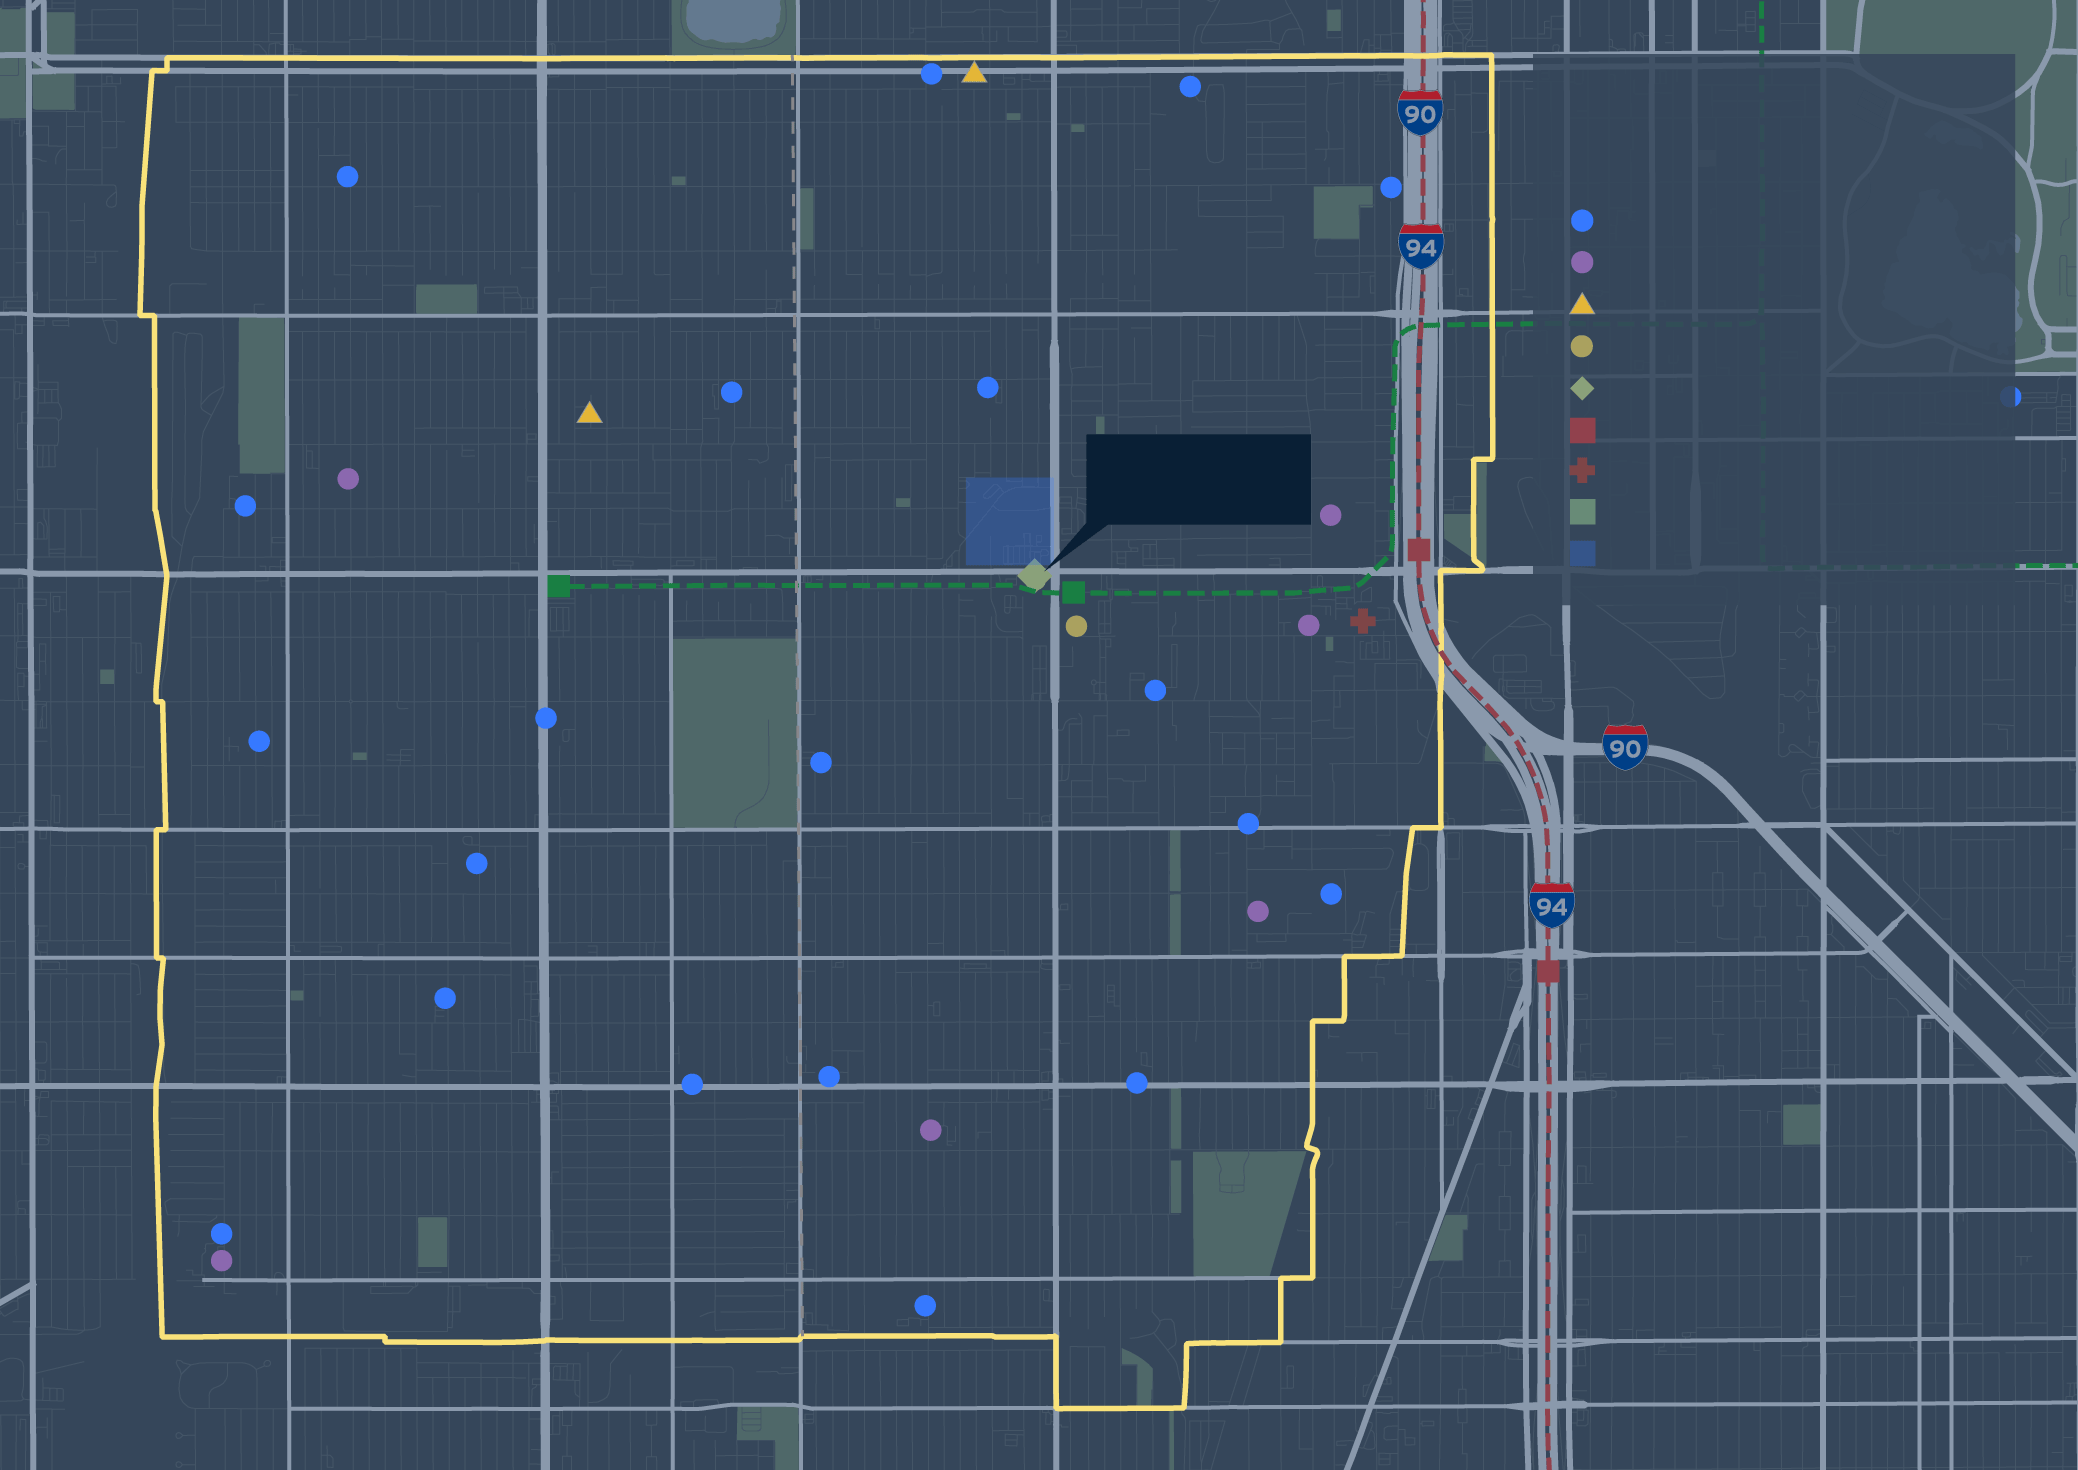
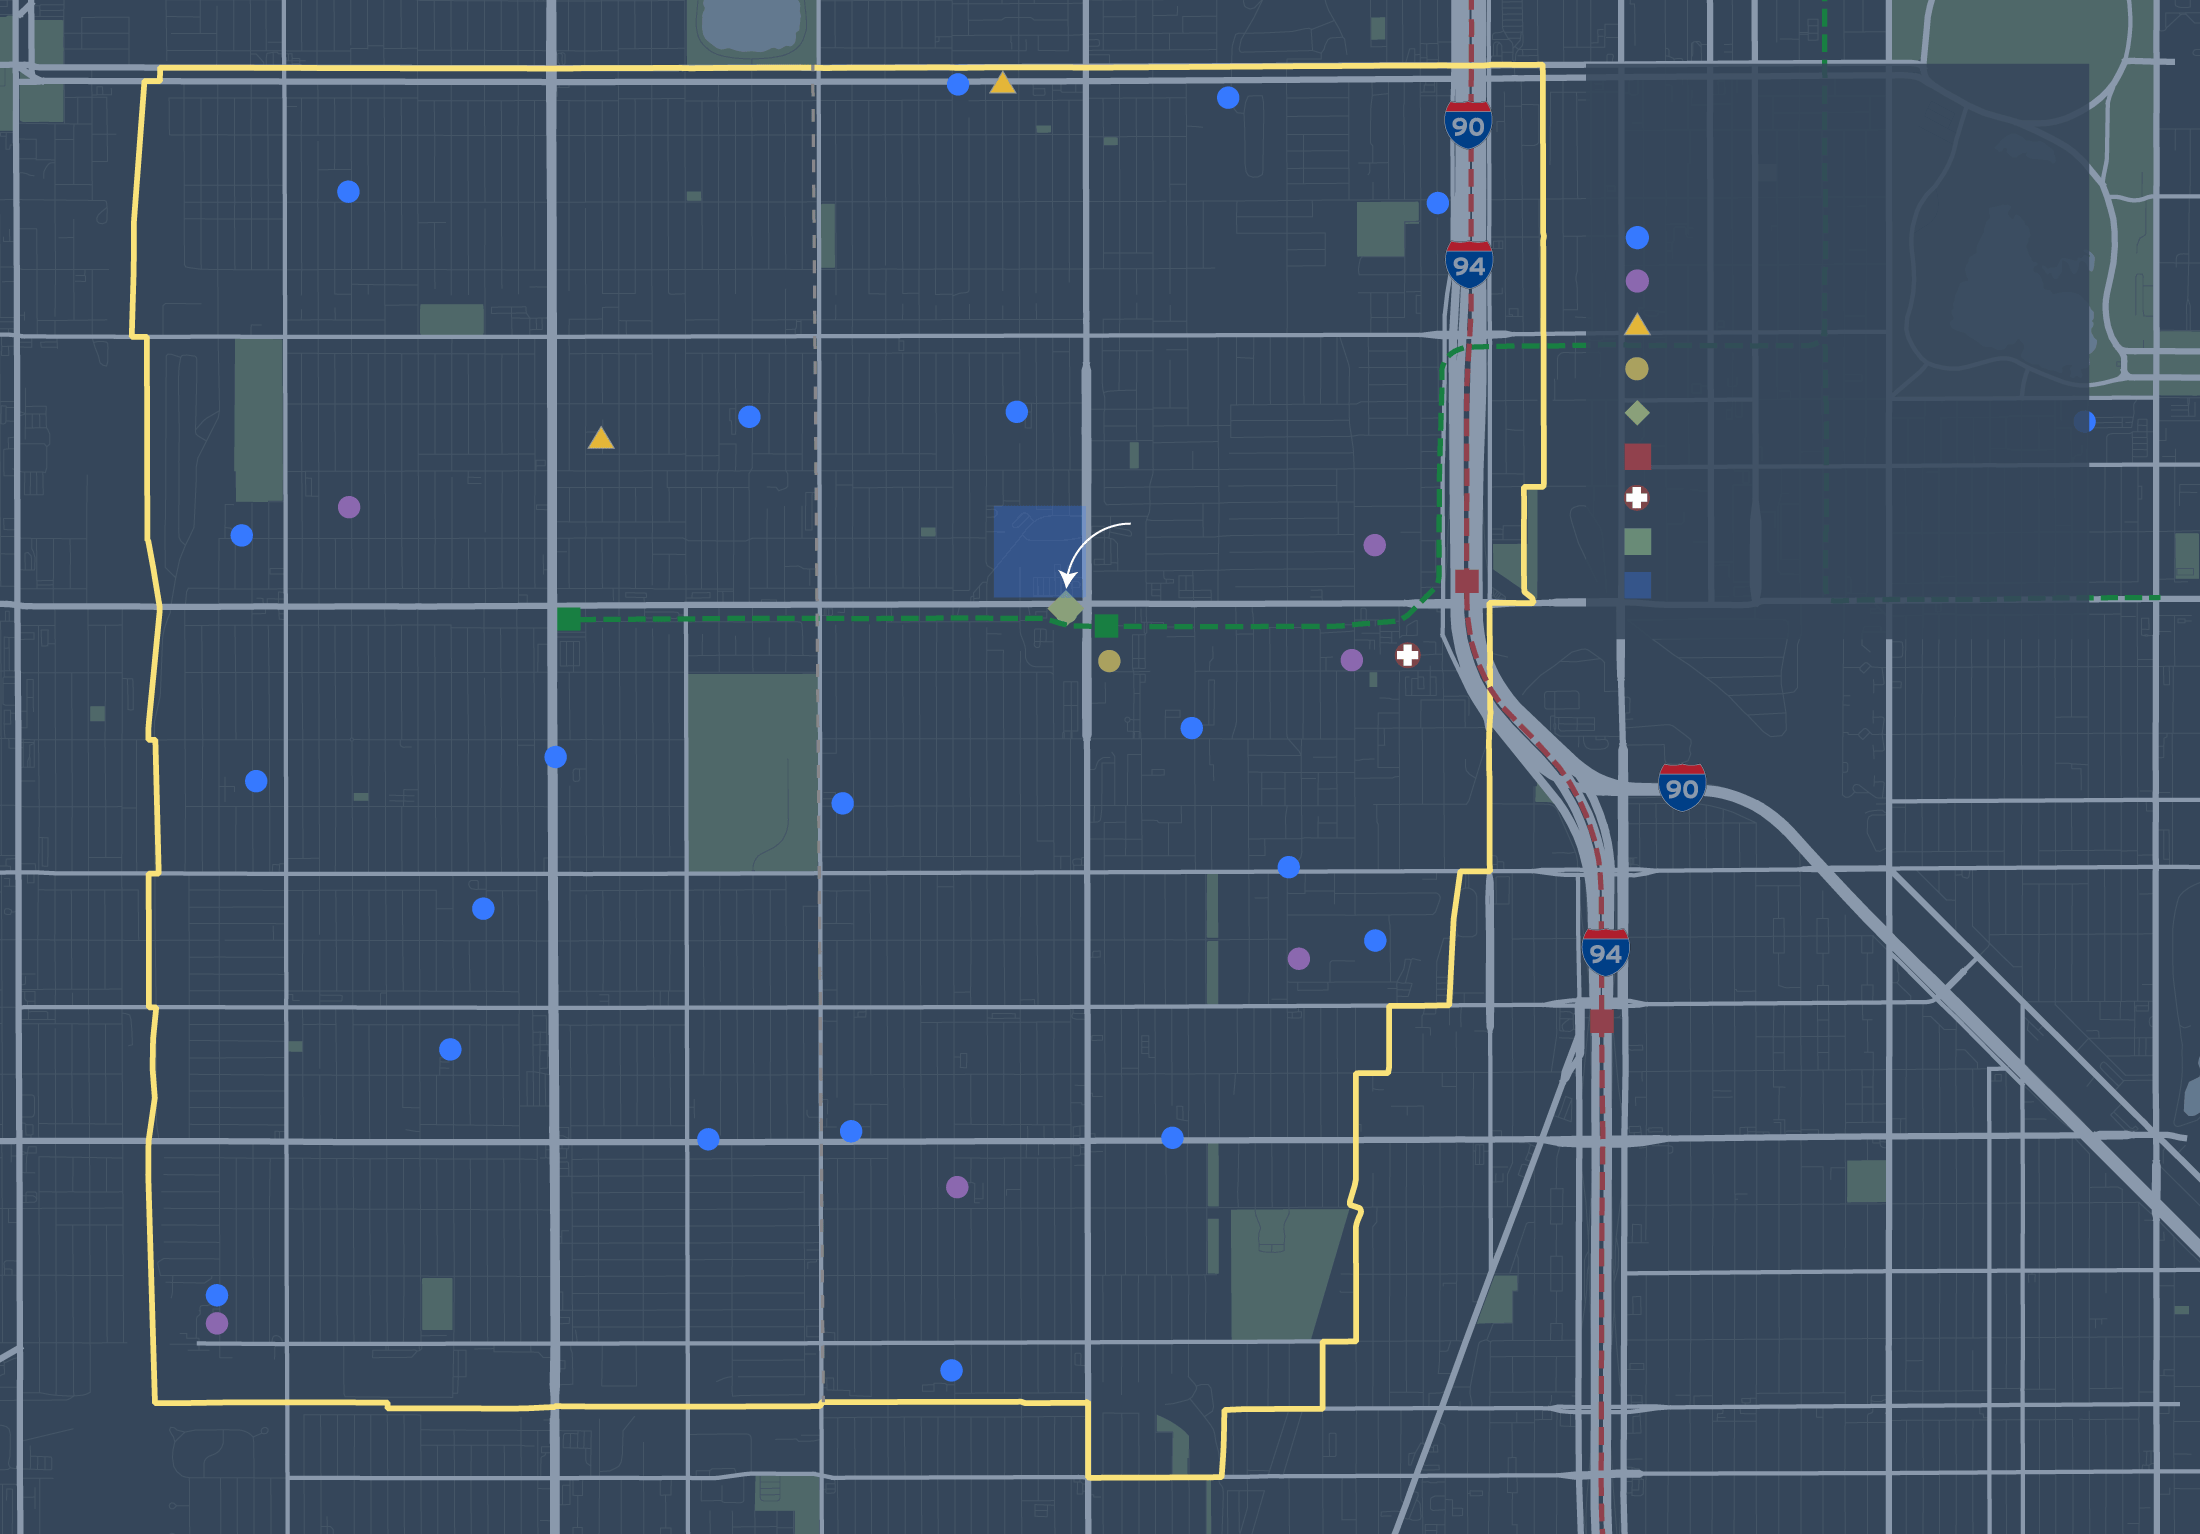
englewood update

Changed region(s): [[0.0, 0.0, 1.0, 1.0]]

diff --git a/englewood_2html.html b/englewood_2html.html
@@ -1,5 +1,5 @@
 
-<!-- Generated by ai2html v0.115.5 - 2023-03-03 00:07 -->
+<!-- Generated by ai2html v0.115.5 - 2023-03-03 05:53 -->
 <!-- ai file: englewood_2html.ai -->
 <style media="screen,print">
 	#g-englewood_2html-box ,
@@ -28,12 +28,12 @@
 		overflow:hidden;
 	}
 	#g-englewood_2html-Artboard_1 p {
-		font-family:arial,helvetica,sans-serif;
+		font-family:Halyard Text Medium;
 		line-height:16px;
 		height:auto;
 		opacity:1;
 		letter-spacing:0em;
-		font-size:13px;
+		font-size:14px;
 		text-align:left;
 		text-transform:none;
 		color:rgb(138,153,172);
@@ -44,74 +44,80 @@
 		position:static;
 	}
 	#g-englewood_2html-Artboard_1 .g-pstyle0 {
-		font-weight:700;
-		line-height:20px;
-		height:20px;
-		font-size:16px;
+		font-family:Halyard Text;
+		font-weight:bold;
+		line-height:21px;
+		height:21px;
+		font-size:17px;
 		text-transform:uppercase;
 	}
 	#g-englewood_2html-Artboard_1 .g-pstyle1 {
-		line-height:30px;
-		height:30px;
+		line-height:31px;
+		height:31px;
 		letter-spacing:-0.007em;
-		font-size:25px;
+		font-size:26px;
 	}
 	#g-englewood_2html-Artboard_1 .g-pstyle2 {
 		height:16px;
 		text-transform:uppercase;
 	}
 	#g-englewood_2html-Artboard_1 .g-pstyle3 {
-		line-height:36px;
-		height:36px;
+		line-height:38px;
+		height:38px;
 		letter-spacing:0.2em;
-		font-size:30px;
+		font-size:31px;
 		text-align:center;
 		color:rgb(105,124,140);
 	}
 	#g-englewood_2html-Artboard_1 .g-pstyle4 {
+		font-family:Halyard Text;
 		font-weight:bold;
 		font-style:italic;
-		line-height:17px;
-		height:17px;
+		line-height:18px;
+		height:18px;
 		letter-spacing:-0.02em;
-		font-size:14px;
+		font-size:15px;
 		text-align:center;
 		color:rgb(145,65,77);
 	}
 	#g-englewood_2html-Artboard_1 .g-pstyle5 {
-		font-weight:700;
+		font-family:Halyard Text;
+		font-weight:bold;
 		line-height:17px;
 		height:17px;
 		font-size:16px;
 		text-transform:uppercase;
-		color:rgb(137,137,137);
+		color:rgb(255,255,255);
 	}
 	#g-englewood_2html-Artboard_1 .g-pstyle6 {
+		font-family:Halyard Text;
+		font-weight:bold;
 		font-style:italic;
-		line-height:17px;
-		height:17px;
+		line-height:18px;
+		height:18px;
 		letter-spacing:-0.02em;
-		font-size:14px;
+		font-size:15px;
 		color:rgb(24,127,66);
 	}
 	#g-englewood_2html-Artboard_1 .g-pstyle7 {
-		line-height:39px;
-		height:39px;
+		line-height:41px;
+		height:41px;
 		letter-spacing:0.2em;
-		font-size:33px;
+		font-size:34px;
 		color:rgb(105,124,140);
 	}
 	#g-englewood_2html-Artboard_1 .g-pstyle8 {
-		font-weight:700;
-		line-height:20px;
-		height:20px;
-		font-size:16px;
+		font-family:Halyard Text;
+		font-weight:bold;
+		line-height:21px;
+		height:21px;
+		font-size:17px;
 		text-align:center;
 		text-transform:uppercase;
 	}
 	#g-englewood_2html-Artboard_1 .g-cstyle0 {
 		vertical-align:super;
-		font-size:11.2px;
+		font-size:11.9px;
 	}
 
 </style>
@@ -119,74 +125,74 @@
 <div id="g-englewood_2html-box" class="ai2html">
 
 	<!-- Artboard: Artboard_1 -->
-	<div id="g-englewood_2html-Artboard_1" class="g-artboard" style="max-width: 1039px;max-height: 735px" data-aspect-ratio="1.414" data-min-width="0">
-<div style="padding: 0 0 70.7334% 0;"></div>
+	<div id="g-englewood_2html-Artboard_1" class="g-artboard" style="max-width: 1100px;max-height: 767px" data-aspect-ratio="1.434" data-min-width="0">
+<div style="padding: 0 0 69.713% 0;"></div>
 		<img id="g-englewood_2html-Artboard_1-img" class="g-englewood_2html-Artboard_1-img g-aiImg" alt="" src="englewood_2html-Artboard_1.png"/>
-		<div id="g-ai0-1" class="g-street_labels g-aiAbs g-aiPointText" style="top:6.1509%;margin-top:-11.2px;left:29.204%;width:98px;">
+		<div id="g-ai0-1" class="g-street_labels g-aiAbs g-aiPointText" style="top:6.5996%;margin-top:-11.6px;left:28.159%;width:102px;">
 			<p class="g-pstyle0">GARFIELD</p>
 		</div>
-		<div id="g-ai0-2" class="g-street_labels g-aiAbs g-aiPointText" style="top:9.1592%;margin-top:-31.3px;left:75.5769%;width:170px;">
+		<div id="g-ai0-2" class="g-street_labels g-aiAbs g-aiPointText" style="top:9.7253%;margin-top:-32.6px;left:73.8835%;width:176px;">
 			<p class="g-pstyle1">Englewood: </p>
 			<p class="g-pstyle1">Key locations</p>
 		</div>
-		<div id="g-ai0-3" class="g-street_labels g-aiAbs g-aiPointText" style="top:15.0583%;margin-top:-8.7px;left:77.2779%;width:181px;">
+		<div id="g-ai0-3" class="g-street_labels g-aiAbs g-aiPointText" style="top:15.5809%;margin-top:-8.5px;left:75.5608%;width:188px;">
 			<p class="g-pstyle2">CPS Elementary school</p>
 		</div>
-		<div id="g-ai0-4" class="g-street_labels g-aiAbs g-aiPointText" style="top:21.5772%;margin-top:-37.6px;left:25.8883%;margin-left:-129px;width:258px;">
+		<div id="g-ai0-4" class="g-street_labels g-aiAbs g-aiPointText" style="top:21.9854%;margin-top:-39.6px;left:24.9188%;margin-left:-134.5px;width:269px;">
 			<p class="g-pstyle3">WEST</p>
 			<p class="g-pstyle3">ENGLEWOOD</p>
 		</div>
-		<div id="g-ai0-5" class="g-street_labels g-aiAbs g-aiPointText" style="top:17.9158%;margin-top:-8.7px;left:77.2779%;width:132px;">
+		<div id="g-ai0-5" class="g-street_labels g-aiAbs g-aiPointText" style="top:18.4498%;margin-top:-8.5px;left:75.5608%;width:137px;">
 			<p class="g-pstyle2">CPS high school</p>
 		</div>
-		<div id="g-ai0-6" class="g-street_labels g-aiAbs g-aiPointText" style="top:20.7732%;margin-top:-8.7px;left:77.2779%;width:172px;">
+		<div id="g-ai0-6" class="g-street_labels g-aiAbs g-aiPointText" style="top:21.3187%;margin-top:-8.5px;left:75.5608%;width:178px;">
 			<p class="g-pstyle2">BIG SHOULDERS SCHOOL</p>
 		</div>
-		<div id="g-ai0-7" class="g-street_labels g-aiAbs g-aiPointText" style="top:23.6307%;margin-top:-8.7px;left:77.2563%;width:77px;">
+		<div id="g-ai0-7" class="g-street_labels g-aiAbs g-aiPointText" style="top:24.0572%;margin-top:-8.5px;left:75.5394%;width:79px;">
 			<p class="g-pstyle2">COLLEGE</p>
 		</div>
-		<div id="g-ai0-8" class="g-street_labels g-aiAbs g-aiPointText" style="top:26.4881%;margin-top:-8.7px;left:77.2779%;width:157px;">
-			<p class="g-pstyle2">COMMUNITY PARTNER</p>
-		</div>
-		<div id="g-ai0-9" class="g-cta g-aiAbs g-aiPointText" style="transform: matrix(0,-1,1,0,0,0);transform-origin: 50% 55.4263155105718%;-webkit-transform: matrix(0,-1,1,0,0,0);-webkit-transform-origin: 50% 55.4263155105718%;-ms-transform: matrix(0,-1,1,0,0,0);-ms-transform-origin: 50% 55.4263155105718%;top:29.9644%;margin-top:-9.2px;left:69.183%;margin-left:-36px;width:72px;">
+		<div id="g-ai0-8" class="g-cta g-aiAbs g-aiPointText" style="transform: matrix(0,-1,1,0,0,0);transform-origin: 50% 55.1610301900106%;-webkit-transform: matrix(0,-1,1,0,0,0);-webkit-transform-origin: 50% 55.1610301900106%;-ms-transform: matrix(0,-1,1,0,0,0);-ms-transform-origin: 50% 55.1610301900106%;top:27.3443%;margin-top:-9.7px;left:68.7075%;margin-left:-39px;width:78px;">
 			<p class="g-pstyle4">Red Line</p>
 		</div>
-		<div id="g-ai0-10" class="g-street_labels g-aiAbs g-aiPointText" style="top:29.2095%;margin-top:-8.7px;left:77.2779%;width:118px;">
+		<div id="g-ai0-9" class="g-street_labels g-aiAbs g-aiPointText" style="top:26.9261%;margin-top:-8.5px;left:75.5608%;width:163px;">
+			<p class="g-pstyle2">COMMUNITY PARTNER</p>
+		</div>
+		<div id="g-ai0-10" class="g-street_labels g-aiAbs g-aiPointText" style="top:29.795%;margin-top:-8.5px;left:75.5608%;width:122px;">
 			<p class="g-pstyle2">CTA TRAIN STOP</p>
 		</div>
-		<div id="g-ai0-11" class="g-callouts g-aiAbs g-aiPointText" style="top:32.7283%;margin-top:-17.5px;left:53.0272%;width:118px;">
+		<div id="g-ai0-11" class="g-callouts g-aiAbs g-aiPointText" style="top:33.5499%;margin-top:-18.3px;left:51.744%;width:123px;">
 			<p class="g-pstyle5">teamwork</p>
 			<p class="g-pstyle5">englewood</p>
 		</div>
-		<div id="g-ai0-12" class="g-street_labels g-aiAbs g-aiPointText" style="top:32.067%;margin-top:-8.7px;left:77.2779%;width:80px;">
+		<div id="g-ai0-12" class="g-street_labels g-aiAbs g-aiPointText" style="top:32.5335%;margin-top:-8.5px;left:75.5608%;width:82px;">
 			<p class="g-pstyle2">HOSPITAL</p>
 		</div>
-		<div id="g-ai0-13" class="g-street_labels g-aiAbs g-aiPointText" style="top:34.9244%;margin-top:-8.7px;left:77.2779%;width:53px;">
+		<div id="g-ai0-13" class="g-street_labels g-aiAbs g-aiPointText" style="top:35.4024%;margin-top:-8.5px;left:75.5608%;width:55px;">
 			<p class="g-pstyle2">PARK</p>
 		</div>
-		<div id="g-ai0-14" class="g-street_labels g-aiAbs g-aiPointText" style="top:37.4111%;margin-top:-13.9px;left:15.8492%;width:103px;">
+		<div id="g-ai0-14" class="g-street_labels g-aiAbs g-aiPointText" style="top:38.0086%;margin-top:-14.5px;left:14.9909%;width:106px;">
 			<p class="g-pstyle0">WEST 63<span class="g-cstyle0">RD</span></p>
 		</div>
-		<div id="g-ai0-15" class="g-street_labels g-aiAbs g-aiPointText" style="top:37.7819%;margin-top:-8.7px;left:77.2779%;width:62px;">
+		<div id="g-ai0-15" class="g-street_labels g-aiAbs g-aiPointText" style="top:38.2713%;margin-top:-8.5px;left:75.5608%;width:64px;">
 			<p class="g-pstyle2">RETAIL</p>
 		</div>
-		<div id="g-ai0-16" class="g-cta g-aiAbs g-aiPointText" style="top:41.6682%;margin-top:-9.2px;left:55.1367%;width:82px;">
+		<div id="g-ai0-16" class="g-cta g-aiAbs g-aiPointText" style="top:42.0801%;margin-top:-9.7px;left:53.7292%;width:93px;">
 			<p class="g-pstyle6">Green Line</p>
 		</div>
-		<div id="g-ai0-17" class="g-street_labels g-aiAbs g-aiPointText" style="top:50.911%;margin-top:-21.2px;left:41.8638%;width:281px;">
+		<div id="g-ai0-17" class="g-street_labels g-aiAbs g-aiPointText" style="top:51.4385%;margin-top:-22.5px;left:40.642%;width:292px;">
 			<p class="g-pstyle7">ENGLEWOOD</p>
 		</div>
-		<div id="g-ai0-18" class="g-street_labels g-aiAbs g-aiPointText" style="transform: matrix(0,-1,1,0,0,0);transform-origin: 50% 54.4626514425172%;-webkit-transform: matrix(0,-1,1,0,0,0);-webkit-transform-origin: 50% 54.4626514425172%;-ms-transform: matrix(0,-1,1,0,0,0);-ms-transform-origin: 50% 54.4626514425172%;top:81.2611%;margin-top:-11.2px;left:25.2487%;margin-left:-48px;width:96px;">
+		<div id="g-ai0-18" class="g-street_labels g-aiAbs g-aiPointText" style="transform: matrix(0,-1,1,0,0,0);transform-origin: 50% 54.3072263817616%;-webkit-transform: matrix(0,-1,1,0,0,0);-webkit-transform-origin: 50% 54.3072263817616%;-ms-transform: matrix(0,-1,1,0,0,0);-ms-transform-origin: 50% 54.3072263817616%;top:81.7127%;margin-top:-11.6px;left:24.2477%;margin-left:-49.5px;width:99px;">
 			<p class="g-pstyle8">ASHLAND</p>
 		</div>
-		<div id="g-ai0-19" class="g-street_labels g-aiAbs g-aiPointText" style="transform: matrix(0,-1,1,0,0,0);transform-origin: 50% 54.4626514425172%;-webkit-transform: matrix(0,-1,1,0,0,0);-webkit-transform-origin: 50% 54.4626514425172%;-ms-transform: matrix(0,-1,1,0,0,0);-ms-transform-origin: 50% 54.4626514425172%;top:81.5332%;margin-top:-11.2px;left:49.9054%;margin-left:-46px;width:92px;">
+		<div id="g-ai0-19" class="g-street_labels g-aiAbs g-aiPointText" style="transform: matrix(0,-1,1,0,0,0);transform-origin: 50% 54.3072263817616%;-webkit-transform: matrix(0,-1,1,0,0,0);-webkit-transform-origin: 50% 54.3072263817616%;-ms-transform: matrix(0,-1,1,0,0,0);-ms-transform-origin: 50% 54.3072263817616%;top:81.9735%;margin-top:-11.6px;left:48.5677%;margin-left:-47.5px;width:95px;">
 			<p class="g-pstyle8">HALSTED</p>
 		</div>
-		<div id="g-ai0-20" class="g-street_labels g-aiAbs g-aiPointText" style="transform: matrix(0,-1,1,0,0,0);transform-origin: 50% 54.4626514425172%;-webkit-transform: matrix(0,-1,1,0,0,0);-webkit-transform-origin: 50% 54.4626514425172%;-ms-transform: matrix(0,-1,1,0,0,0);-ms-transform-origin: 50% 54.4626514425172%;top:82.2136%;margin-top:-11.2px;left:37.581%;margin-left:-40.5px;width:81px;">
+		<div id="g-ai0-20" class="g-street_labels g-aiAbs g-aiPointText" style="transform: matrix(0,-1,1,0,0,0);transform-origin: 50% 54.3072263817616%;-webkit-transform: matrix(0,-1,1,0,0,0);-webkit-transform-origin: 50% 54.3072263817616%;-ms-transform: matrix(0,-1,1,0,0,0);-ms-transform-origin: 50% 54.3072263817616%;top:82.756%;margin-top:-11.6px;left:36.4375%;margin-left:-42px;width:84px;">
 			<p class="g-pstyle8">RACINE</p>
 		</div>
 	</div>
 
 </div>
 
-<!-- End ai2html - 2023-03-03 00:07 -->
+<!-- End ai2html - 2023-03-03 05:53 -->
